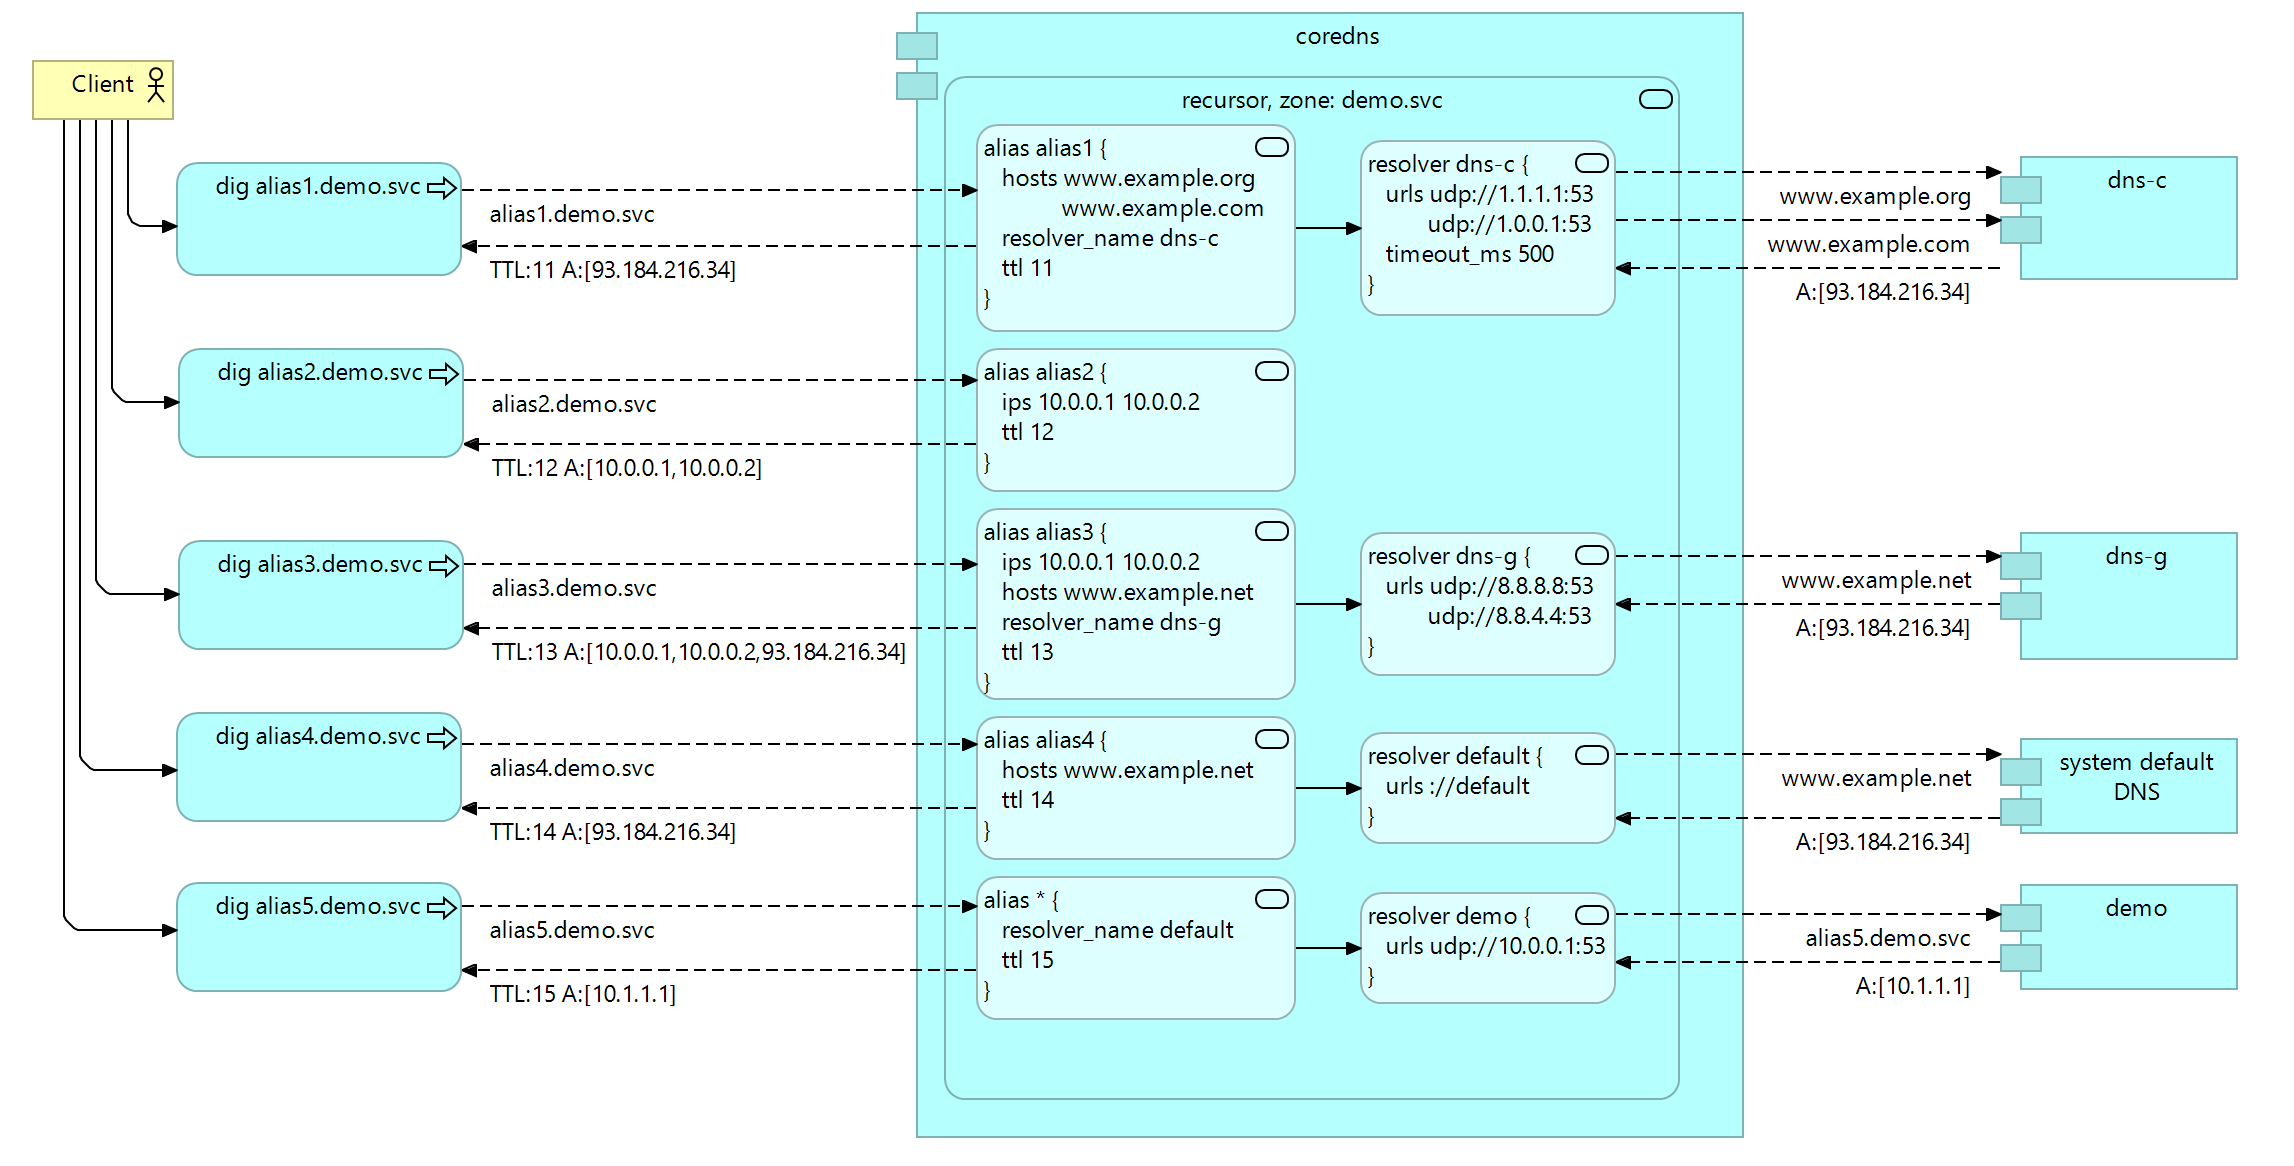
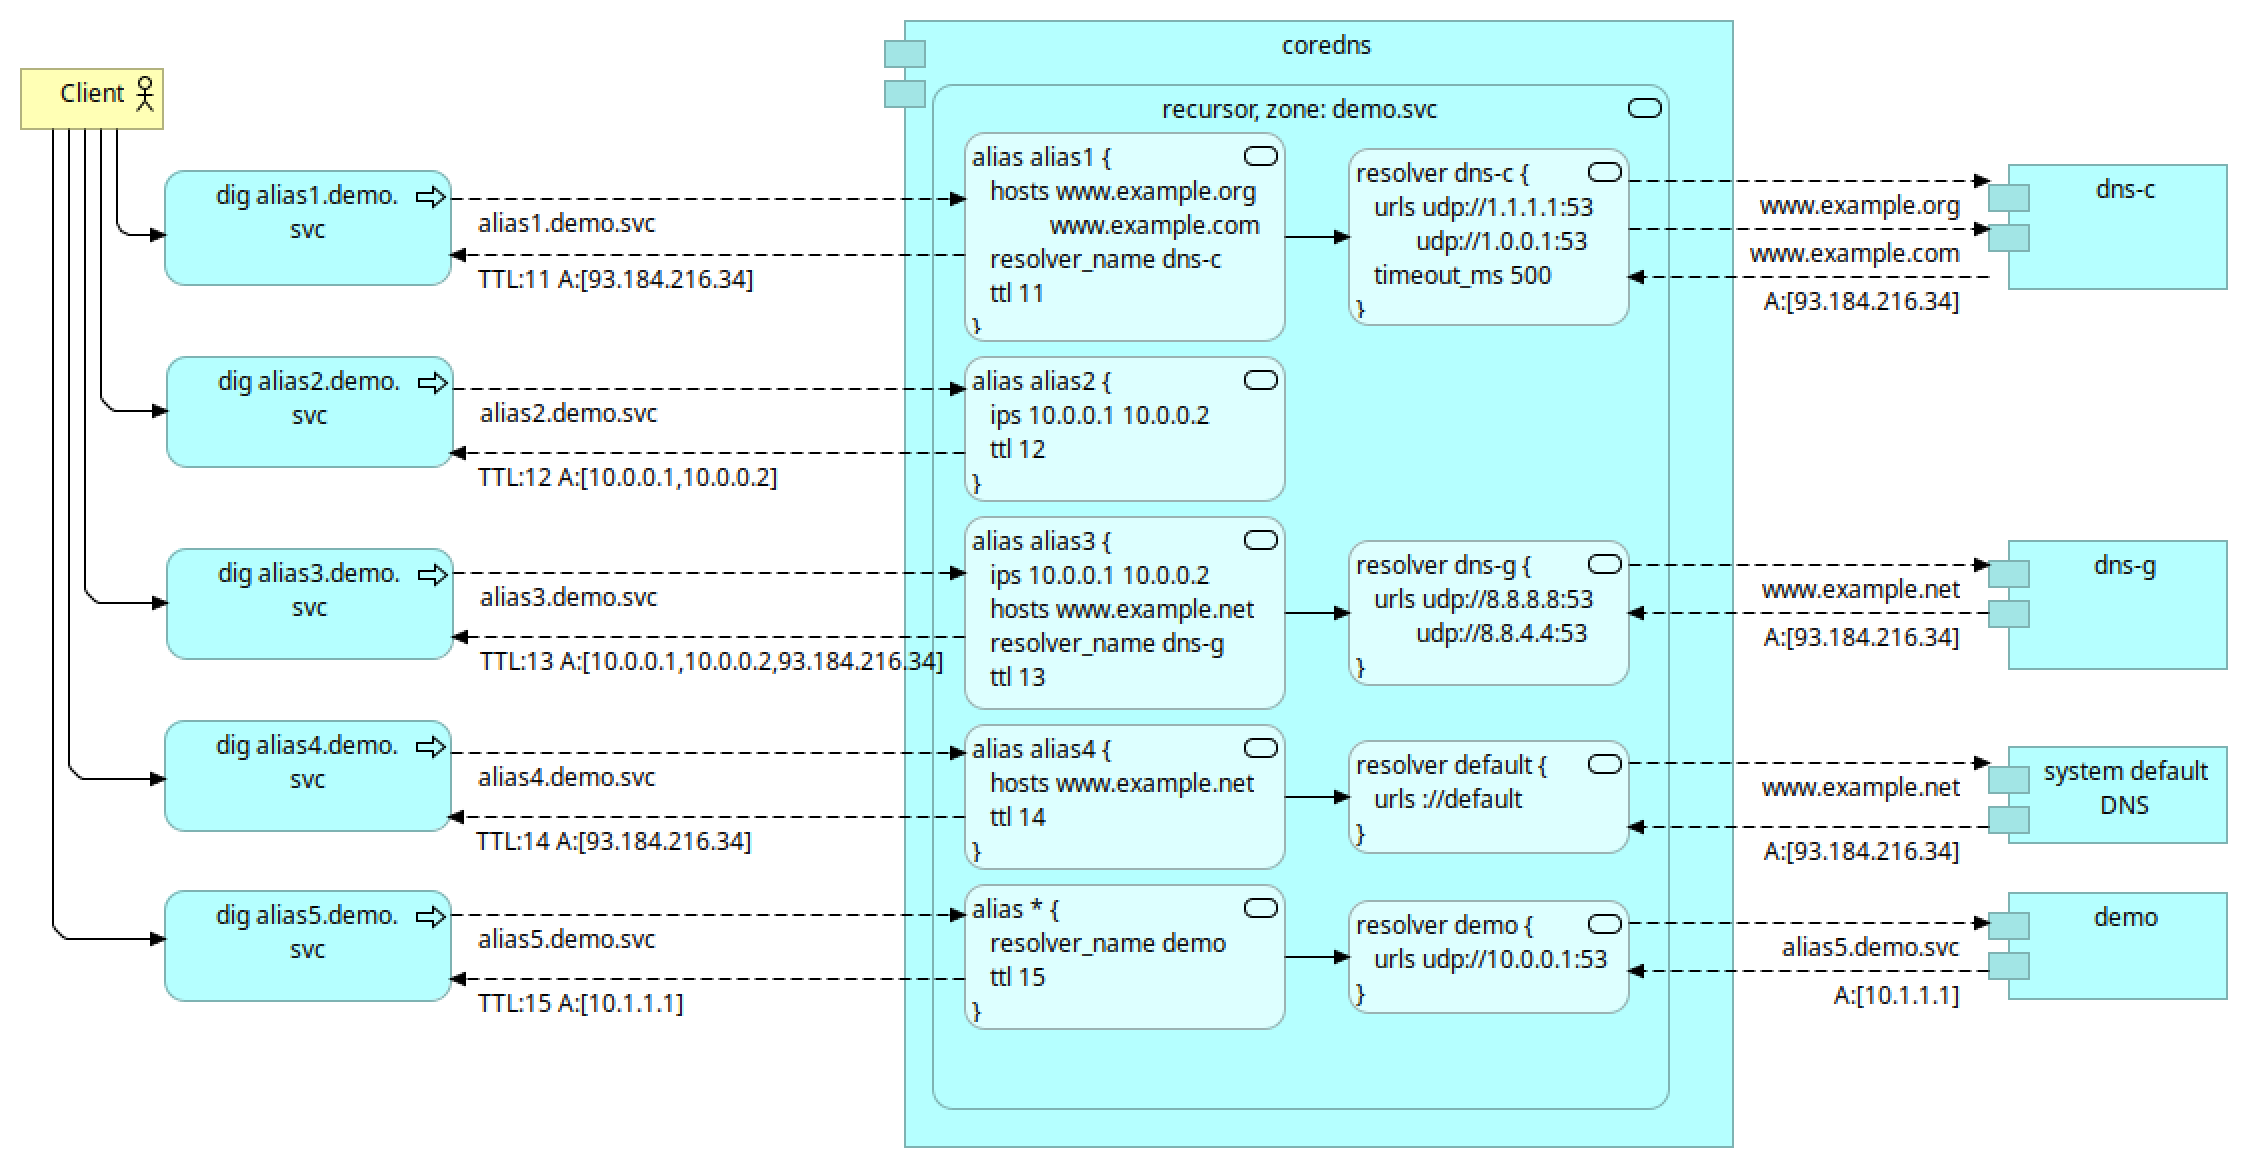
shuffle_ips support, v1.2.0 go1.21

Changed region(s): [[0.0, 0.0, 0.9964, 0.988]]

diff --git a/recursor_test.go b/recursor_test.go
@@ -3,6 +3,7 @@ package recursor
 import (
 	"context"
 	"github.com/stretchr/testify/assert"
+	"reflect"
 	"strconv"
 	"strings"
 	"testing"
@@ -31,8 +32,9 @@ func TestRecursor_should_work_with_default_system_resolver(t *testing.T) {
 				Hosts: []string{"localhost"},
 			},
 			"test4": {
-				Hosts: []string{"localhost"},
-				Ips:   []string{"10.0.0.1", "10.0.0.2"},
+				Hosts:      []string{"localhost"},
+				Ips:        []string{"10.0.0.1", "10.0.0.2"},
+				ShuffleIps: true,
 			},
 			"test5": {
 				Hosts: []string{"127.0.0.1"},
@@ -40,11 +42,11 @@ func TestRecursor_should_work_with_default_system_resolver(t *testing.T) {
 			},
 		},
 	})
-	testQuestion(t, rcu, []uint16{dns.TypeA}, "test1.svc", []string{"127.0.0.1"}, 0, false)
-	testQuestion(t, rcu, []uint16{dns.TypeA}, "test2.svc", []string{"10.0.0.1", "10.0.0.2"}, 0, false)
-	testQuestion(t, rcu, []uint16{dns.TypeA}, "test3.svc", []string{"127.0.0.1"}, 0, false)
-	testQuestion(t, rcu, []uint16{dns.TypeA}, "test4.svc", []string{"127.0.0.1", "10.0.0.1", "10.0.0.2"}, 0, false)
-	testQuestion(t, rcu, []uint16{dns.TypeA}, "test5.svc", []string{"127.0.0.1"}, 0, false)
+	testQuestion(t, rcu, []uint16{dns.TypeA}, "test1.svc", []string{"127.0.0.1"}, 0, false, "t1")
+	testQuestion(t, rcu, []uint16{dns.TypeA}, "test2.svc", []string{"10.0.0.1", "10.0.0.2"}, 0, false, "t2")
+	testQuestion(t, rcu, []uint16{dns.TypeA}, "test3.svc", []string{"127.0.0.1"}, 0, false, "t3")
+	testQuestion(t, rcu, []uint16{dns.TypeA}, "test4.svc", []string{"127.0.0.1", "10.0.0.1", "10.0.0.2"}, 0, false, "t4")
+	testQuestion(t, rcu, []uint16{dns.TypeA}, "test5.svc", []string{"127.0.0.1"}, 0, false, "t5")
 }
 
 func TestRecursor_should_work_with_custom_resolver(t *testing.T) {
@@ -59,24 +61,24 @@ func TestRecursor_should_work_with_custom_resolver(t *testing.T) {
 		},
 		Aliases: map[string]aliasCfg{
 			"test": {
-				Hosts:        []string{"example.org"},
+				Hosts:        []string{"one.one.one.one"},
 				Ttl:          3,
 				ResolverName: "my_resolver",
 			},
 		},
 	})
 
-	testQuestion(t, rcu, []uint16{dns.TypeA}, "test.svc", []string{"93.184.216.34"}, 3, false)
-	testQuestion(t, rcu, []uint16{dns.TypeAAAA}, "test.svc", []string{"2606:2800:220:1:248:1893:25c8:1946"}, 3, false)
-	testQuestion(t, rcu, []uint16{dns.TypeANY}, "test.svc", []string{"93.184.216.34", "2606:2800:220:1:248:1893:25c8:1946"}, 3, false)
-	testQuestion(t, rcu, []uint16{dns.TypeA, dns.TypeAAAA}, "test.svc", []string{"93.184.216.34", "2606:2800:220:1:248:1893:25c8:1946"}, 3, false)
-	testQuestion(t, rcu, []uint16{dns.TypeCNAME}, "test.svc", []string{}, 3, true)
+	testQuestion(t, rcu, []uint16{dns.TypeA}, "test.svc", []string{"1.0.0.1", "1.1.1.1"}, 3, false, "t1")
+	testQuestion(t, rcu, []uint16{dns.TypeAAAA}, "test.svc", []string{"2606:4700:4700::1001", "2606:4700:4700::1111"}, 3, false, "t2")
+	testQuestion(t, rcu, []uint16{dns.TypeANY}, "test.svc", []string{"1.0.0.1", "1.1.1.1", "2606:4700:4700::1001", "2606:4700:4700::1111"}, 3, false, "t3")
+	testQuestion(t, rcu, []uint16{dns.TypeA, dns.TypeAAAA}, "test.svc", []string{"1.0.0.1", "1.1.1.1", "2606:4700:4700::1001", "2606:4700:4700::1111"}, 3, false, "t4")
+	testQuestion(t, rcu, []uint16{dns.TypeCNAME}, "test.svc", []string{}, 3, true, "t5")
 }
 
 func TestRecursor_should_work_as_repeater(t *testing.T) {
 	rcu, _ := createRecursor(recursorCfg{
 		Verbose: verbose,
-		Zone:    "wikipedia.org",
+		Zone:    "one.one.one",
 		Resolvers: map[string]resolverCfg{
 			"default": {
 				Urls:      []string{"udp://8.8.8.8:53"},
@@ -84,44 +86,97 @@ func TestRecursor_should_work_as_repeater(t *testing.T) {
 			},
 		},
 		Aliases: map[string]aliasCfg{
-			"www": {
-				Hosts: []string{"www.wikipedia.org"},
+			"x": {
+				Hosts: []string{"one.one.one.one"},
 				Ttl:   10,
 			},
 			"*": {
-				Hosts: []string{"www.wikipedia.org"},
-				Ttl:   20,
+				Ttl: 20,
 			},
 		},
 	})
 
-	testQuestion(t, rcu, []uint16{dns.TypeA}, "www.wikipedia.org", []string{"91.198.174.192"}, 10, false)
-	testQuestion(t, rcu, []uint16{dns.TypeA}, "pl.wikipedia.org", []string{"91.198.174.192"}, 20, false)
-	testQuestion(t, rcu, []uint16{dns.TypeA}, "domain-that-doesnt-exist.wikipedia.org", []string{}, 0, true)
-	testQuestion(t, rcu, []uint16{dns.TypeA}, "domain.that.doesnt.exist.wikipedia.org", []string{}, 0, true)
+	testQuestion(t, rcu, []uint16{dns.TypeA}, "x.one.one.one", []string{"1.0.0.1", "1.1.1.1"}, 10, false, "t1")
+	testQuestion(t, rcu, []uint16{dns.TypeA}, "one.one.one.one", []string{"1.0.0.1", "1.1.1.1"}, 20, false, "t2")
+	testQuestion(t, rcu, []uint16{dns.TypeA}, "y.one.one.one", []string{}, 0, true, "t3")
+	testQuestion(t, rcu, []uint16{dns.TypeA}, "z.y.one.one.one", []string{}, 0, true, "t4")
 }
 
-func testQuestion(t *testing.T, rr recursor, qTypes []uint16, question string, expectedIps []string, expectedTtl int, expectedError bool) {
+func TestRecursor_should_shuffle_ips(t *testing.T) {
+	rcu, _ := createRecursor(recursorCfg{
+		Verbose: verbose,
+		Zone:    "svc",
+		Aliases: map[string]aliasCfg{
+			"shuffle": {
+				Ips:        []string{"10.0.0.1", "10.0.0.2", "10.0.0.3", "10.0.0.4", "10.0.0.5"},
+				ShuffleIps: true,
+			},
+		},
+	})
+
+	ips1 := getIpsOrder(t, rcu, "shuffle.svc")
+	ips2 := getIpsOrder(t, rcu, "shuffle.svc")
+	i := 0
+	for reflect.DeepEqual(ips1, ips2) && i < 5 {
+		ips2 = getIpsOrder(t, rcu, "shuffle.svc")
+		i++
+	}
+	assert.NotEqual(t, ips1, ips2, "IP Addresses have to be in different order in different queries")
+}
+
+func TestRecursor_should_shuffle_host_ips(t *testing.T) {
+	rcu, _ := createRecursor(recursorCfg{
+		Verbose: verbose,
+		Zone:    "svc",
+		Aliases: map[string]aliasCfg{
+			"shuffle": {
+				Hosts:      []string{"one.one.one.one"},
+				ShuffleIps: true,
+			},
+		},
+	})
+
+	ips1 := getIpsOrder(t, rcu, "shuffle.svc")
+	ips2 := getIpsOrder(t, rcu, "shuffle.svc")
+	i := 0
+	for reflect.DeepEqual(ips1, ips2) && i < 5 {
+		ips2 = getIpsOrder(t, rcu, "shuffle.svc")
+		i++
+	}
+	assert.NotEqual(t, ips1, ips2, "Host IP Addresses have to be in different order in different queries")
+}
+
+func getIpsOrder(t *testing.T, rr recursor, question string) []string {
+	rec, _, err := askQuestion(question, []uint16{dns.TypeA}, rr)
+	assert.NoError(t, err)
+	var ips []string
+	for _, answer := range rec.Msg.Answer {
+		ips = append(ips, strings.Split(answer.String(), "\t")[4])
+	}
+	return ips
+}
+
+func testQuestion(t *testing.T, rr recursor, qTypes []uint16, question string, expectedIps []string, expectedTtl int, expectedError bool, description string) {
 	rec, code, err := askQuestion(question, qTypes, rr)
 	if err != nil {
 		if expectedError {
 			return
 		} else {
-			t.Errorf("unexpected error %v", err)
+			t.Errorf("(%s) unexpected error %v", description, err)
 		}
 	}
 	log.Debugf("code: %d, err: %v, answer: %s", code, err, rec.Msg.Answer)
 	response := ","
 	for _, value := range rec.Msg.Answer {
 		if strings.Index(value.String(), dns.CanonicalName(question)+"\t"+strconv.Itoa(expectedTtl)) != 0 {
-			t.Errorf("failed to find '%s' in responce '%s'", question, value)
+			t.Errorf("(%s) failed to find '%s' in responce '%s'", description, question, value)
 		}
 		response = response + value.String() + ","
 	}
-	assert.Equal(t, len(expectedIps), len(rec.Msg.Answer), "expected ips len != answer len")
+	assert.Equal(t, len(expectedIps), len(rec.Msg.Answer), "("+description+") expected ips len != answer len")
 	for _, ip := range expectedIps {
 		if !strings.Contains(response, "A\t"+ip+",") {
-			t.Errorf("%s - failed to find '%s' in responce %s", question, ip, response)
+			t.Errorf("(%s) %s - failed to find '%s' in responce %s", description, question, ip, response)
 			return
 		}
 	}

diff --git a/config_test.go b/config_test.go
@@ -43,16 +43,16 @@ func TestConfig_controller_should_read_inline_caddy(t *testing.T) {
 	rcu, err := loadCaddyControllerConfig(t, "examples/config1.caddy")
 	checkRcu(t, err, rcu)
 	rcu, err = loadCaddyControllerConfig(t, "examples/config2.caddy")
+	assert.Nil(t, err)
 	_, found := rcu.Aliases["*"]
-	assert.Nil(t, err)
 	assert.True(t, found)
 	rcu, err = loadCaddyControllerConfig(t, "examples/config3.caddy")
+	assert.Nil(t, err)
 	_, found = rcu.Aliases["*"]
-	assert.Nil(t, err)
 	assert.True(t, found)
 	rcu, err = loadCaddyControllerConfig(t, "examples/config3.caddy")
-	_, found = rcu.Aliases["x"]
 	assert.Nil(t, err)
+	_, found = rcu.Aliases["x"]
 	assert.False(t, found)
 }
 
@@ -94,6 +94,7 @@ func checkRcu(t *testing.T, err error, rcu recursorCfg) {
 	assert.Equal(t, 2, len(a.Hosts), "alias1 hosts len")
 	assert.Equal(t, "www.example.org", a.Hosts[0], "alias1 hosts[0]")
 	assert.Equal(t, "www.example.com", a.Hosts[1], "alias1 hosts[1]")
+	assert.True(t, a.ShuffleIps, "alias1 ips shuffle is on")
 	assert.Equal(t, uint32(5), a.Ttl, "alias1 ttl")
 	assert.Equal(t, "resolver_primary", a.ResolverName, "alias1 resolverName")
 
@@ -102,6 +103,7 @@ func checkRcu(t *testing.T, err error, rcu recursorCfg) {
 	assert.Equal(t, "10.1.1.1", a.Ips[0], "alias2 ips[0]")
 	assert.Equal(t, "10.1.1.2", a.Ips[1], "alias2 ips[1]")
 	assert.Equal(t, 0, len(a.Hosts), "alias2 hosts len")
+	assert.False(t, a.ShuffleIps, "alias2 ips shuffle default false")
 	assert.Equal(t, uint32(0), a.Ttl, "alias2 ttl")
 	assert.Equal(t, "default", a.ResolverName, "alias2 resolverName")
 
@@ -110,6 +112,7 @@ func checkRcu(t *testing.T, err error, rcu recursorCfg) {
 	assert.Equal(t, 2, len(a.Hosts), "alias3 hosts len")
 	assert.Equal(t, "www.example.org", a.Hosts[0], "alias3 hosts[0]")
 	assert.Equal(t, "www.example.com", a.Hosts[1], "alias3 hosts[1]")
+	assert.False(t, a.ShuffleIps, "alias3 ips shuffle default false")
 	assert.Equal(t, uint32(15), a.Ttl, "alias3 ttl")
 	assert.Equal(t, "resolver_secondary", a.ResolverName, "alias3 resolverName")
 

diff --git a/recursor.go b/recursor.go
@@ -8,13 +8,14 @@ import (
 	"github.com/coredns/coredns/request"
 	"github.com/miekg/dns"
 	"github.com/prometheus/client_golang/prometheus"
+	"math/rand"
 	"net"
 	"strings"
 	"time"
 )
 
 const pluginName = "recursor"
-const pluginVersion = "1.1.3"
+const pluginVersion = "1.2.0"
 const defaultResolverName = "default"
 
 // Name implements the Handler interface.
@@ -51,6 +52,7 @@ func (r resolverDef) String() string {
 type aliasDef struct {
 	hosts          []string
 	ips            []net.IP
+	shuffleIps     bool
 	ttl            uint32
 	resolverDefRef *resolverDef
 }
@@ -116,6 +118,11 @@ func (r recursor) ServeDNS(ctx context.Context, out dns.ResponseWriter, query *d
 			return plugin.NextOrFailure(r.Name(), r.Next, ctx, out, query)
 		}
 		ips = ipsAppendUnique(ips, dynIps)
+	}
+	if aDef.shuffleIps {
+		rand.Shuffle(len(ips), func(i, j int) {
+			ips[i], ips[j] = ips[j], ips[i]
+		})
 	}
 
 	aMsg := createDnsAnswer(query, port, r.zone, domain, alias, aDef.resolverDefRef.name, ips, qA, qAAAA, aDef.ttl)
@@ -196,7 +203,7 @@ func ipsAppendUnique(dest []net.IP, src []net.IP) []net.IP {
 
 func ipsExists(arr []net.IP, ipaToFind net.IP) bool {
 	for _, ipa := range arr {
-		if strings.EqualFold(ipa.String(), ipaToFind.String()) {
+		if ipa.Equal(ipaToFind) {
 			return true
 		}
 	}

diff --git a/config.go b/config.go
@@ -24,6 +24,7 @@ func (rcu recursorCfg) String() string {
 type aliasCfg struct {
 	Hosts        []string `json:"hosts" yaml:"hosts"`
 	Ips          []string `json:"ips" yaml:"ips"`
+	ShuffleIps   bool     `json:"shuffle_ips" yaml:"shuffle_ips"`
 	Ttl          uint32   `json:"ttl" yaml:"ttl"`
 	ResolverName string   `json:"resolver_name" yaml:"resolver_name"`
 }
@@ -175,6 +176,11 @@ func readAliasCfg(c *caddy.Controller) (aliasCfg, error) {
 				return cfg, fmt.Errorf("empty hosts list")
 			}
 			cfg.Hosts = args
+		case "shuffle_ips":
+			if len(args) != 1 {
+				return cfg, fmt.Errorf("wrong 'shuffle_ips' definition")
+			}
+			cfg.ShuffleIps = args[0] == "true"
 		case "resolver_name":
 			if len(args) != 1 {
 				return cfg, fmt.Errorf("wrong 'resolver_name' definition")

diff --git a/setup.go b/setup.go
@@ -120,9 +120,10 @@ func createResolver(name string, p resolverCfg) (resolverDef, error) {
 
 func createAlias(aName string, aCfg aliasCfg, resolvers map[string]resolverDef) (aliasDef, error) {
 	a := aliasDef{
-		ips:   []net.IP{},
-		hosts: aCfg.Hosts,
-		ttl:   aCfg.Ttl,
+		ips:        []net.IP{},
+		hosts:      aCfg.Hosts,
+		shuffleIps: aCfg.ShuffleIps,
+		ttl:        aCfg.Ttl,
 	}
 	var ips []net.IP
 	for _, ip := range aCfg.Ips {

diff --git a/README.md b/README.md
@@ -8,22 +8,23 @@ The `recursor` resolves domains using defined IP addresses or resolving other ma
 
 ## Config Syntax / Examples
 
-The `recursor` definition:
-- `zone` - DNS zone for the recursor
-- `verbose` - stdout logs level: 
-  - `0` - minimal
-  - `1` - middle
-  - `2` - talkative
-- `resolvers` - other DNS servers:
-  - *map-key/id*: name of resolver, `default` overrides system default resolver  
-  - `urls`: list of URL addresses, example: `udp://127.0.0.1:53` (system default is represented by `://default`)
-  - `timeout_ms`: resolver connection timeout in millisecods 
-- `aliases` - domain aliases:
-    - *map-key/id*: name of alias, subdomain or `*` if you want the recursor to be a DNS repeater
-    - `ips`: IP addresses to return as a part of answer
-  - `hosts`: domains to be resolved so that the IP addresses obtained in this way will be returned as a part of answer
-  - `resolver_name`: the defined resolver reference, default is... `default` of course :)
-  - `ttl`: DNS record Time To Live in seconds
+The `recursor` configuration includes the following definitions:
+- `zone`: The DNS zone for the recursor.
+- `verbose`: The logging level for stdout:
+  - `0`: minimal logging
+  - `1`: moderate logging
+  - `2`: detailed logging
+- `resolvers`: Other DNS servers to use:
+  - *map-key/id*: The name of the resolver. The `default` overrides the system's default resolver.
+  - `urls`: A list of URL addresses, e.g., `udp://127.0.0.1:53` (the system default is represented by `://default`).
+  - `timeout_ms`: The connection timeout for the resolver, in milliseconds.
+- `aliases`: Domain aliases:
+  - *map-key/id*: The alias name, a subdomain, or `*` if you want the recursor to act as a DNS repeater.
+  - `ips`: A list of IP addresses to be returned as part of the response.
+  - `hosts`: Domains that will be resolved, with the resulting IP addresses returned in the response.
+  - `shuffle_ips`: Default is `false`. If set to `true`, IP addresses will be returned in random order.
+  - `resolver_name`: The name of the resolver to use. The default is... well, `default`, of course :)
+  - `ttl`: Time To Live for the DNS record, in seconds.
 
 #### Corefile
 
@@ -46,6 +47,7 @@ recursor {
     }  
     alias alias1 {
         hosts www.example.org www.example.com
+        shuffle_ips true
         resolver_name dns-c
         ttl 11
     }
@@ -86,6 +88,7 @@ recursor {
         aliases:
           alias1:
             hosts: [ www.example.org, www.example.com ]
+            shuffle_ips: true
             resolver_name: dns-c
             ttl: 11
           alias2:
@@ -124,6 +127,7 @@ recursor {
   "aliases": {
     "alias1": {
       "hosts": [ "www.example.org", "www.example.com" ],
+      "shuffle_ips": true,
       "resolver_name": "dns-c",
       "ttl": 11
     },
@@ -164,25 +168,24 @@ recursor {
 ### Build It
 
 ```bash
-#!/usr/bin/env bash
+#!/bin/bash eu
 
-set -eux
 # Extract coredns source code
 tar xzvf coredns.src.tar.gz
 pushd coredns
   # Add external plugins
   go get github.com/kinjelom/coredns-recursor@latest
-  echo -e "recursor:github.com/kinjelom/coredns-recursor" >> plugin.cfg
+  grep -q '^recursor:' plugin.cfg || echo -e "recursor:github.com/kinjelom/coredns-recursor" >> plugin.cfg
   # Build
   go generate
   go build
   ./coredns -plugins
 popd
 ```
+
 ### Deployments Ready to Use
 
 - [BOSH Release](https://github.com/kinjelom/coredns-boshrelease)
-- [Kubernetes](https://github.com/kinjelom/coredns-k8s)
 
 ## Try it
 
